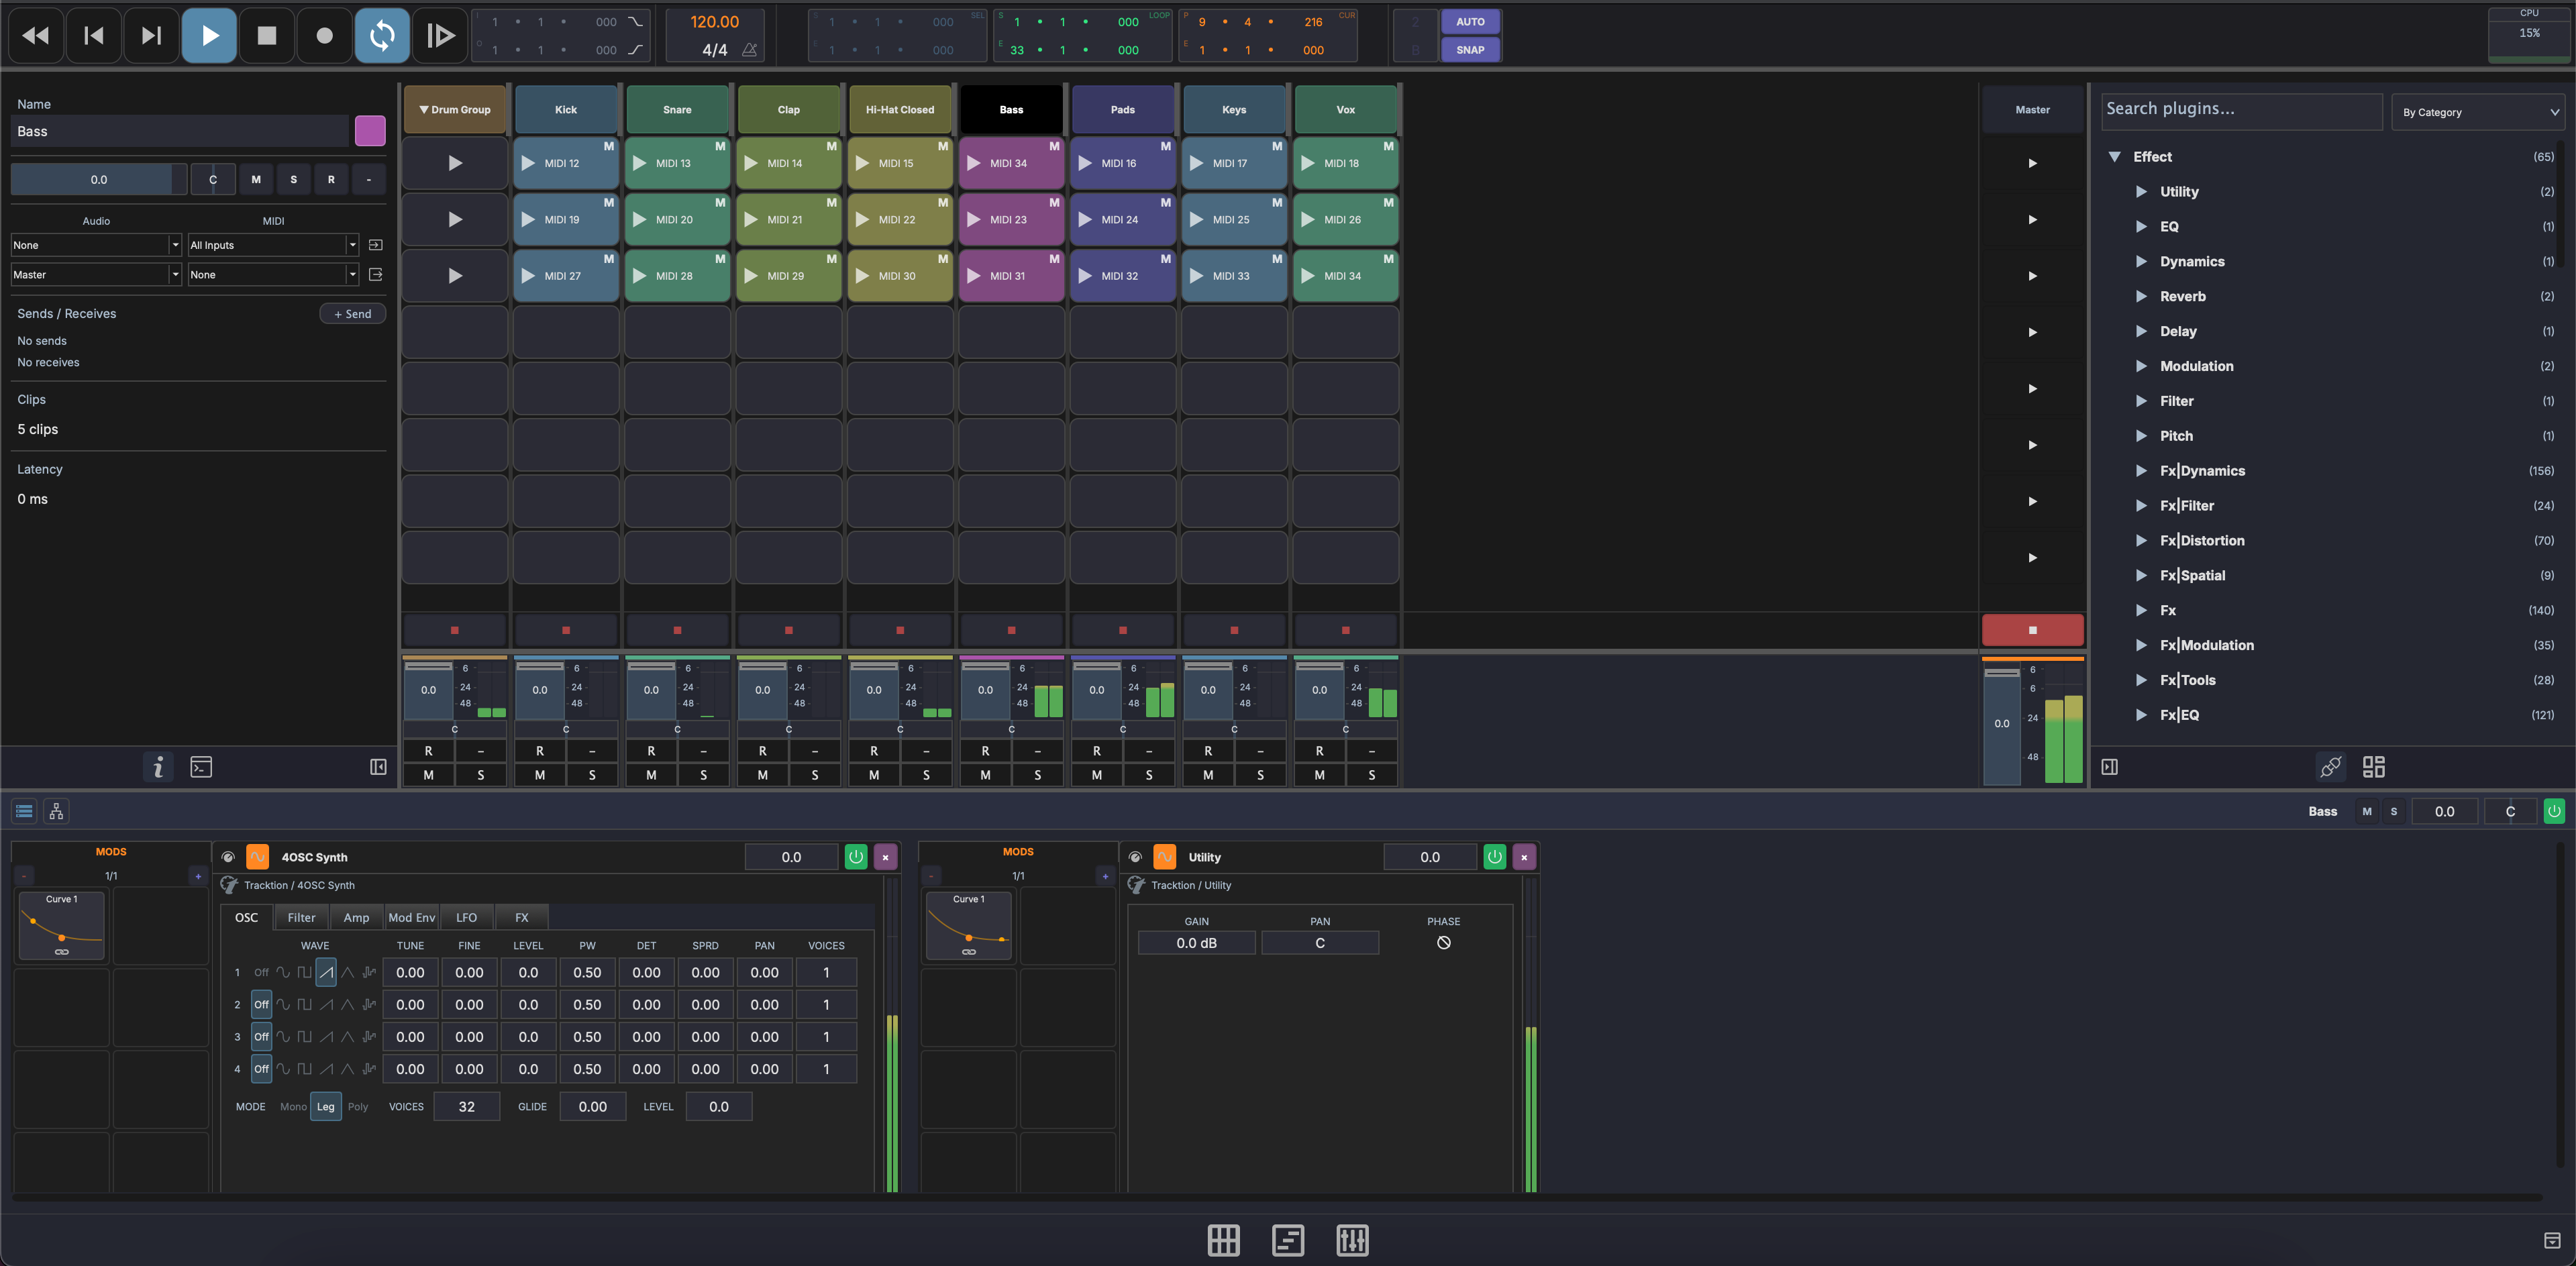
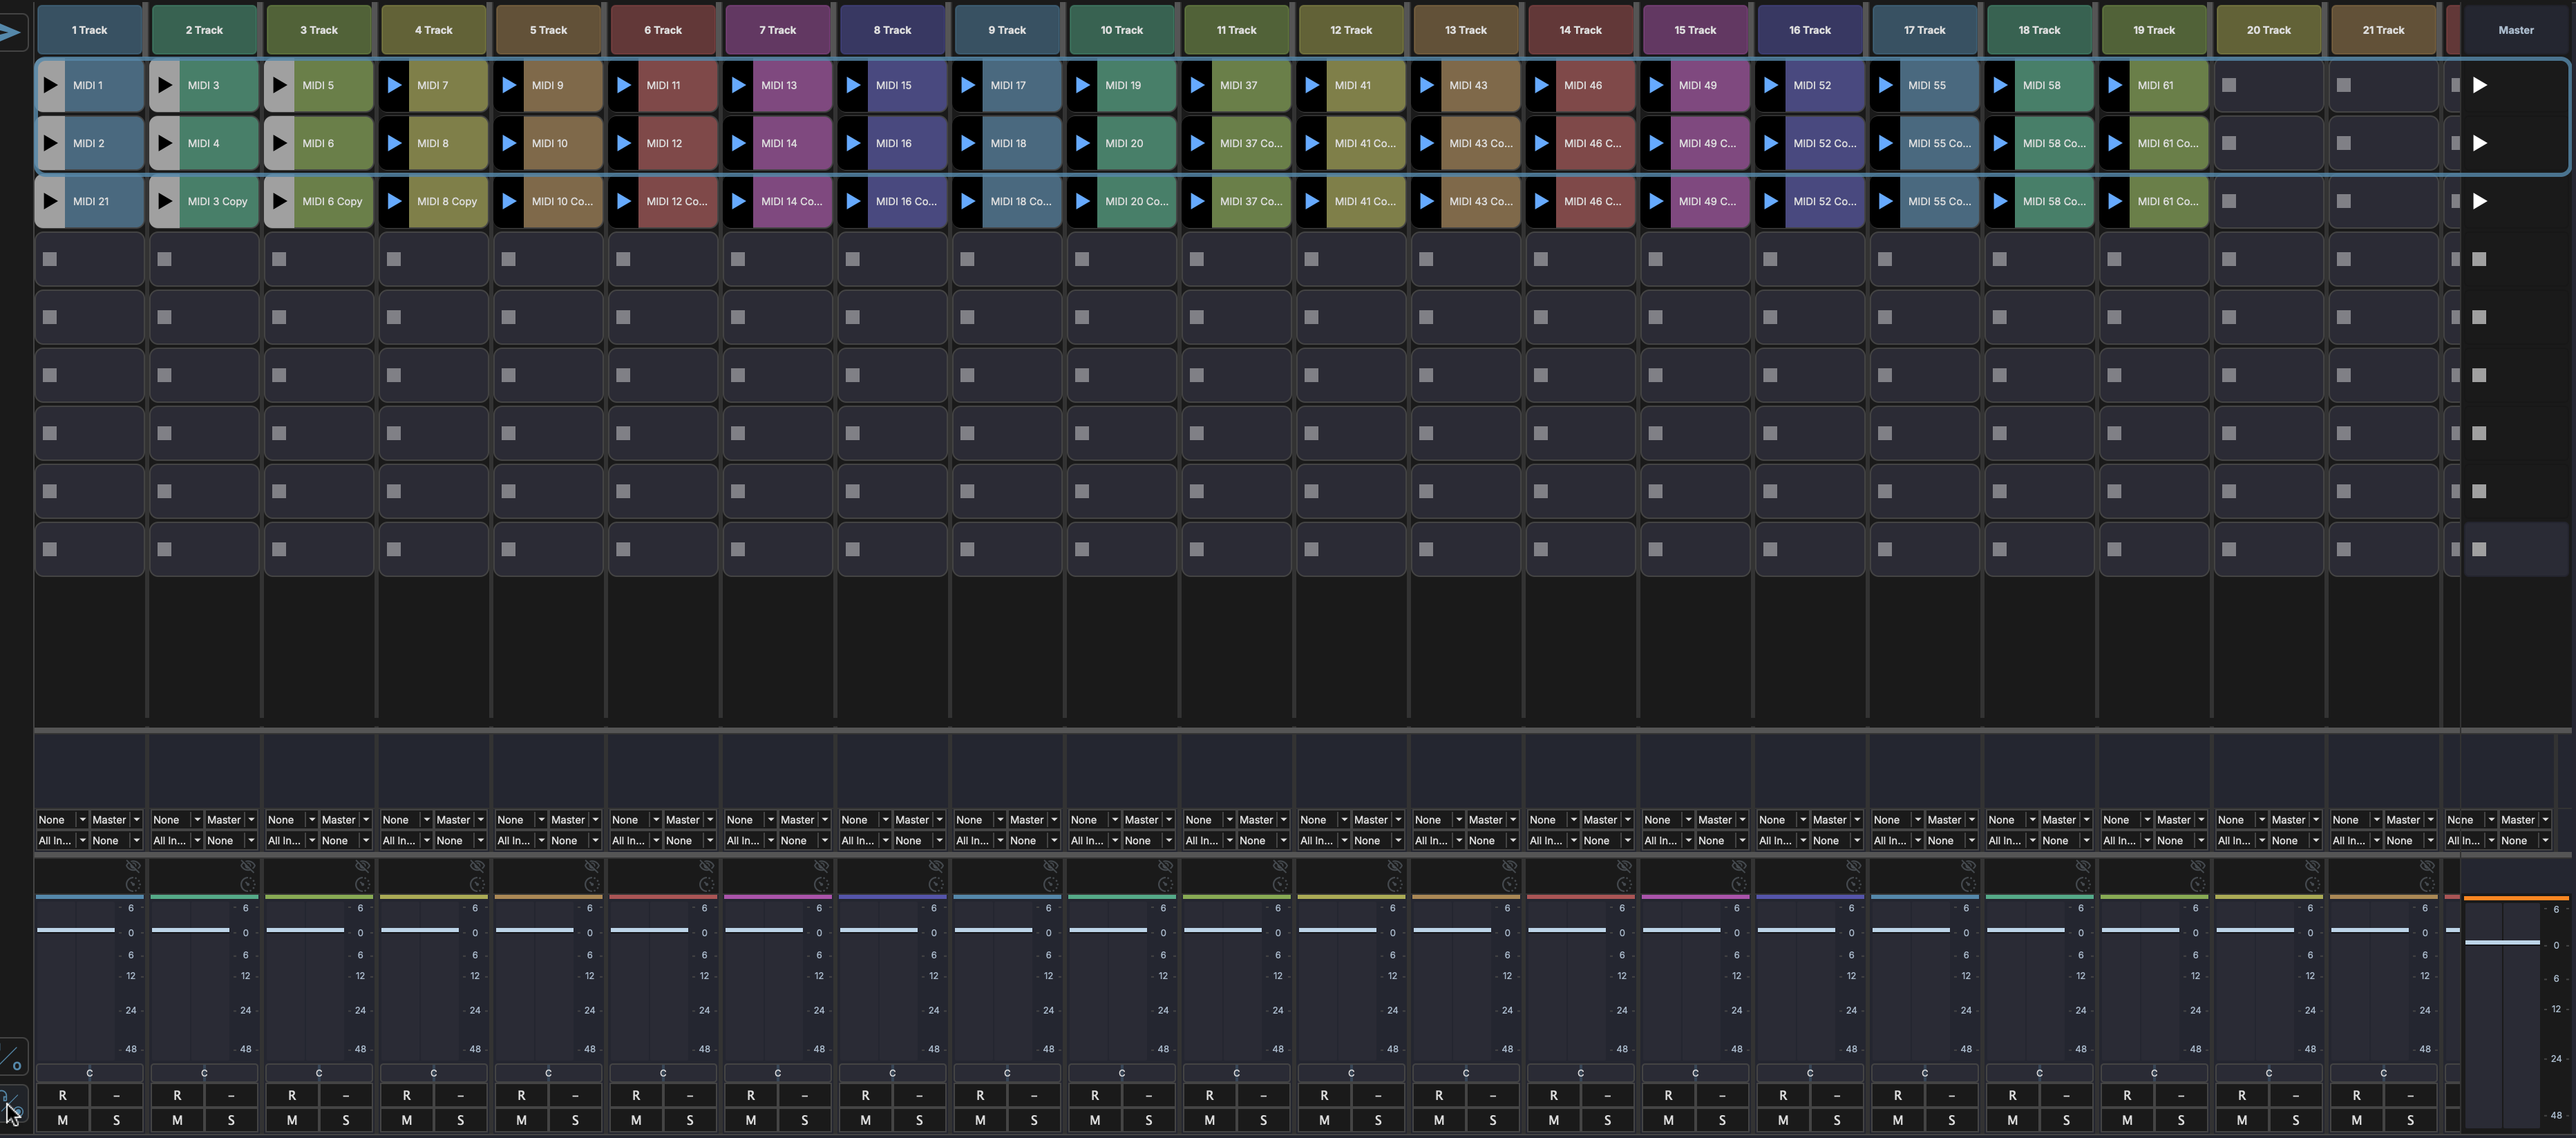
Update manual for 0.10 (#1368)
- New Analysis devices page (Oscilloscope + Spectrum) and nav entry
- FX Chain: Post-FX section and Gain Staging
- Mixer View: toggle rail, mini FX chain, mini analyzers, fader-over-
  meter with dB readout, auto-sized sends; refreshed screenshot
- Session View: mini-mixer toggle rail; refreshed screenshot
- Keyboard Shortcuts: remappable note + mouse/trackpad gestures table
- Preferences: Keyboard + Gestures tabs, auto-hide scrollbars
- Live input highlight (piano roll + drum grid), sample arrow-key
  auditioning

Pull request: Update manual for 0.10
- New Analysis devices page (Oscilloscope + Spectrum) and nav entry
- FX Chain: Post-FX section and Gain Staging
- Mixer View: toggle rail, mini FX chain, mini analyzers, fader-over- meter with dB readout, auto-sized sends; refreshed screenshot
- Session View: mini-mixer toggle rail; refreshed screenshot
- Keyboard Shortcuts: remappable note + mouse/trackpad gestures table
- Preferences: Keyboard + Gestures tabs, auto-hide scrollbars
- Live input highlight (piano roll + drum grid), sample arrow-key auditioning

diff --git a/manual/docs/devices/analysis.md b/manual/docs/devices/analysis.md
@@ -1,0 +1,32 @@
+# Analysis (Oscilloscope & Spectrum)
+
+MAGDA ships two real-time analysis devices, an **Oscilloscope** and a **Spectrum Analyzer**. They tap the signal passing through them and draw it; they do not change the audio. Drag either from the Plugin Browser onto any track's FX chain, or add it to the [post-FX area](../fx-chain.md#post-fx-section) of a track or the master.
+
+Both devices also appear as compact [mini analyzers](../mixer-view.md#mini-analyzers) on the mixer strips, and either can be popped out into its own always-on-top window from the **open-in-window** button in the device header.
+
+## Oscilloscope
+
+The Oscilloscope draws the waveform in the time domain. It triggers on a zero crossing so the trace holds still instead of scrolling, and renders a stable min/max envelope of the signal.
+
+| Control | What it does |
+|---------|--------------|
+| **Timebase** | How much time the display spans, from a few milliseconds up to a few seconds. Shorter shows individual cycles; longer shows the overall envelope. |
+| **Trace colour** | Pick the waveform colour from a small set of swatches. The choice is saved with the device. |
+
+dBFS reference lines mark the amplitude scale so you can read level at a glance.
+
+## Spectrum Analyzer
+
+The Spectrum Analyzer draws the frequency content of the signal. It runs a windowed FFT and plots magnitude against a logarithmic frequency axis.
+
+| Control | What it does |
+|---------|--------------|
+| **FFT size** | Resolution of the analysis. Larger gives finer frequency detail at the cost of a slower response. |
+| **Slope** | Tilts the display by a fixed dB-per-octave amount, so a natural spectrum reads flatter and high-frequency detail is easier to see. |
+| **Smoothing** | How quickly the curve reacts — slower smoothing is steadier, faster is more responsive. |
+| **Trace colour** | Pick the curve colour from a small set of swatches. |
+
+A **peak-hold** line sits on top of the live curve, marking the highest level reached in each band. The frequency axis runs across the audible range with a dB magnitude scale down the side.
+
+!!! note
+    Both analyzers refresh continuously and add no latency or gain to the signal, so you can leave them inserted anywhere in a chain. In the post-FX area, only one Oscilloscope and one Spectrum Analyzer can exist per track.

diff --git a/manual/docs/mixer-view.md b/manual/docs/mixer-view.md
@@ -30,17 +30,30 @@ The Mixer View provides a channel-strip interface for balancing levels, panning,
 
 Click a channel strip to select it. Drag plugins onto a channel strip to add them to the track's FX chain.
 
+## Toggle Rail
+
+A vertical rail of toggles runs down the left edge of the mixer. Each button shows or hides a row across every channel strip, so you can pare the mixer back to just the controls you need:
+
+- **Sends** — the send section
+- **I/O** — input and output routing selectors
+- **Monitor** — input monitoring controls
+- **Oscilloscope** — a mini oscilloscope per strip
+- **Spectrum** — a mini spectrum analyzer per strip
+- **FX Chain** — the strip's mini FX chain
+
+The rail's on/off state is remembered between sessions.
+
 ## Channel Strip Controls
 
 Each channel strip provides:
 
 ### Volume Fader
 
-Drag the fader to adjust the track's output level. The dB scale is displayed alongside the fader.
+Drag the fader to adjust the track's output level. The fader sits over the track's peak meter, with the current level shown as a dB readout below the thumb.
 
 ### Level Meters
 
-Stereo level meters (L/R) show the real-time signal level. A peak label displays the highest level reached — watch for clipping.
+The peak meter sits directly behind the fader and shows the real-time signal level. A peak value displays the highest level reached — watch for clipping.
 
 ### Pan
 
@@ -57,6 +70,14 @@ The pan control positions the track in the stereo field, from hard left to hard 
 
 The track name and color bar are displayed at the bottom of each strip for identification.
 
+### Mini FX Chain
+
+With the **FX Chain** toggle on, each strip shows a compact version of the track's FX chain. Each device row surfaces a handful of its parameters as faders, so you can tweak an effect without leaving the mixer. Choose exactly which parameters appear per device from the **Mini** column in the [parameter config dialog](plugin-parameters.md) — if none are chosen, the strip falls back to the device's first visible parameters. Third-party plugins also show a button to open their own UI; native MAGDA devices do not.
+
+### Mini Analyzers
+
+With the **Oscilloscope** or **Spectrum** toggle on, a mini [analyzer](devices/analysis.md) appears on each strip that carries the matching device. Click the expand chevron to unfold its controls beneath the trace, or the pop-out button to open the full analyzer in its own floating window.
+
 ## Master Channel Strip
 
 The master strip controls the final output level of the mix. It has its own volume fader, meters, and pan control but no mute/solo/record buttons.
@@ -72,13 +93,13 @@ Each channel strip has routing selectors for:
 
 ## Sends
 
-Each channel strip has a send section for routing audio to auxiliary buses.
+Each channel strip has a send section for routing audio to auxiliary buses. Show or hide it with the **Sends** toggle in the rail.
 
 - **Add a send** — Create a new send slot to route signal to an aux track
 - **Send level** — Adjust how much signal is sent to the aux bus
 - **Remove a send** — Click the remove button on a send slot to delete it
 
-The send section is resizable — drag the resize handle to show more or fewer send slots.
+The send section sizes itself to the number of sends across your tracks, so every strip stays aligned.
 
 ## Multi-Output Plugins
 

diff --git a/manual/docs/fx-chain.md b/manual/docs/fx-chain.md
@@ -89,3 +89,24 @@ Click the **+** button next to "Chains" to add a new parallel chain.
 ### Collapsible Devices
 
 Individual devices inside a rack can be collapsed to save space. Click the collapse button on a device to shrink it to a compact header. The rack resizes dynamically as devices are collapsed or expanded. Collapsed states are preserved when the chain rebuilds (e.g. when adding or removing devices).
+
+## Post-FX Section
+
+In addition to the main FX chain, every track and the master have a **post-FX area** — a stage that runs *after* the main chain and *before* the track fader. It is the natural home for meters and analyzers, but any effect can live there.
+
+Toggle the post-FX area from the buttons in the track chain header, then drop an [Oscilloscope or Spectrum Analyzer](devices/analysis.md), or any effect, into it. The panel opens automatically when a track has post-FX devices.
+
+!!! note
+    Each analyzer kind is unique per track in the post-FX area — one Oscilloscope and one Spectrum Analyzer at most — while regular effects can repeat.
+
+## Gain Staging
+
+Gain staging trims the output of every device in a chain so the whole chain holds a target headroom, without adjusting each one by hand.
+
+Open it from the gain-staging button in the track chain header, set your **target peak** (default -12 dBFS), play a representative section of the song, and stop. MAGDA works out the trims:
+
+- It only **attenuates**, never boosts.
+- It carries the gain forward down the chain, so later devices see consistent levels.
+- Every fader it moves stays **marked** so you can see the pass at a glance, until you change it or run another pass.
+
+The whole pass is a single undoable step. An optional **AI pass** can weigh limiters and saturators in the chain instead of applying a flat target.

diff --git a/manual/docs/reference/keyboard-shortcuts.md b/manual/docs/reference/keyboard-shortcuts.md
@@ -1,5 +1,7 @@
 # Keyboard Shortcuts
 
+Everything below is the **default** mapping. You can remap any shortcut from **Settings > Preferences > Shortcuts**, on the **Keyboard** tab, and reset to defaults at any time. Mouse and trackpad gestures are remappable on the **Gestures** tab of the same page — see [Mouse & Trackpad Gestures](#mouse-trackpad-gestures). Your changes are saved between sessions.
+
 ## Transport
 
 | Shortcut | Action |
@@ -32,6 +34,20 @@
 |----------|--------|
 | ++cmd++ + click (++ctrl++ + click on Windows/Linux) | Toggle arrangement clip selection |
 | ++shift+ctrl++ + click | Erase arrangement clip under cursor |
+
+## Mouse & Trackpad Gestures
+
+Wheel and trackpad gestures are context-aware and remappable from **Settings > Preferences > Shortcuts > Gestures**. The defaults (use ++ctrl++ for ++cmd++ on Windows/Linux):
+
+| Gesture | Action |
+|---------|--------|
+| Wheel | Scroll vertically |
+| ++shift++ + wheel | Scroll horizontally |
+| ++cmd++ + wheel | Zoom horizontally toward the cursor |
+| ++alt++ + wheel | Adjust track height (arrangement) |
+| Trackpad horizontal swipe | Scroll horizontally |
+
+In the **piano roll**, ++alt++ + wheel changes note-row height. In the **drum grid**, ++alt++ + wheel changes row height and ++cmd++ + wheel zooms the timebase.
 
 ## Tracks
 

diff --git a/manual/docs/interface/preferences.md b/manual/docs/interface/preferences.md
@@ -17,6 +17,7 @@ The dialog is organised into sections; each section is described below.
 
 - **Panel visibility defaults** — Choose which panels are shown on startup
 - **Behavior settings** — Configure UI interaction preferences
+- **Auto-hide arrangement scrollbars** — Keep the arrangement scrollbars hidden until you hover near them, for a cleaner workspace
 - **Language** — Select the UI language from the dropdown. The list is populated from the locale files (`.json`) shipped in MAGDA's `lang/` folder, so available languages grow as translations are contributed. A restart-required hint appears after switching; the new language takes effect the next time MAGDA launches. See [Localization](../localization.md) for how translations are managed and how to contribute.
 
 ### UI Scale
@@ -71,7 +72,9 @@ See [AI Settings](ai-settings.md) for the full reference.
 
 ## Shortcuts
 
-- **Keyboard shortcuts** — View and customize all keyboard shortcuts
-- **Reset to defaults** — Restore the default shortcut mappings
+Two tabs:
 
-See [Keyboard Shortcuts](../reference/keyboard-shortcuts.md) for the full default shortcut list.
+- **Keyboard** — view and remap every keyboard shortcut, with a reset-to-defaults option
+- **Gestures** — remap the mouse and trackpad wheel gestures (scroll, zoom, track height) per context
+
+Both are saved between sessions. See [Keyboard Shortcuts](../reference/keyboard-shortcuts.md) for the full default list of keys and gestures.

diff --git a/manual/docs/devices/built-in.md b/manual/docs/devices/built-in.md
@@ -22,6 +22,10 @@ MAGDA ships with its own native MIDI devices, instruments, and effects. All buil
 
 The MAGDA FX bank is a set of native effects compiled from Faust DSP and shipped with every MAGDA installation. See [Effects](effects.md) for the full list, grouped by category.
 
+## Analysis
+
+Real-time visual analyzers — an **Oscilloscope** and a **Spectrum Analyzer** — that tap the signal without changing it, on the FX chain or in the post-FX area. See [Analysis](analysis.md).
+
 ## External Plugins
 
 In addition to built-in devices, MAGDA supports external plugins in the following formats:

diff --git a/manual/docs/session-view.md b/manual/docs/session-view.md
@@ -72,9 +72,9 @@ A **master strip** is also available for the main output level.
 
 The fader row is resizable — drag the top edge to make it taller or shorter.
 
-### I/O and Send Rows
+### Toggle Rail
 
-Optional rows for I/O routing and send levels can be toggled on or off to keep the view compact or show more detail.
+A toggle rail along the side of the mini mixer shows or hides its rows — I/O routing and sends among them — the same way the [Mixer View](mixer-view.md#toggle-rail) does. Keep the view compact or expand it for more detail.
 
 ## Drag and Drop
 

diff --git a/manual/docs/panels/browsers.md b/manual/docs/panels/browsers.md
@@ -47,6 +47,7 @@ The Media Explorer lets you browse files on your system and preview audio before
 
 - Click an audio file to preview it through your monitor output
 - Preview plays in sync with the transport tempo when applicable
+- With **Auto** on, ++arrowup++ / ++arrowdown++ step through results and audition each one as it is selected; ++arrowleft++ stops the preview and ++arrowright++ replays it from the start
 
 ### Filters
 

diff --git a/manual/docs/panels/drum-grid-editor.md b/manual/docs/panels/drum-grid-editor.md
@@ -8,6 +8,7 @@ Displayed in the bottom panel when a drum clip is selected or a DrumGrid device 
 - **Columns** represent time steps
 - **Click** cells to toggle hits on/off
 - **Velocity** per hit is adjustable
+- **Live input highlight** — with the track's input monitoring on, pad rows light up as you play them and the played row scrolls into view
 
 !!! note "Header controls"
     - **Grid resolution** — Draggable numerator/denominator for grid subdivision

diff --git a/manual/docs/panels/piano-roll.md b/manual/docs/panels/piano-roll.md
@@ -13,6 +13,7 @@ Displayed in the bottom panel when a MIDI clip is selected. Provides a grid for 
 - **Drag edges** to resize note length
 - ++cmd++ **+ click** a note to delete it directly. If the note is part of a multi-selection, the whole group is erased. Acts as a rubber tool.
 - **Velocity lane** at the bottom for editing note velocities
+- **Live input highlight** — with the track's input monitoring on, the keyboard lights up notes as you play them (MIDI or computer keyboard) and scrolls a held note into view
 
 !!! note "Header controls"
     - **Grid resolution** — Draggable numerator/denominator for grid subdivision